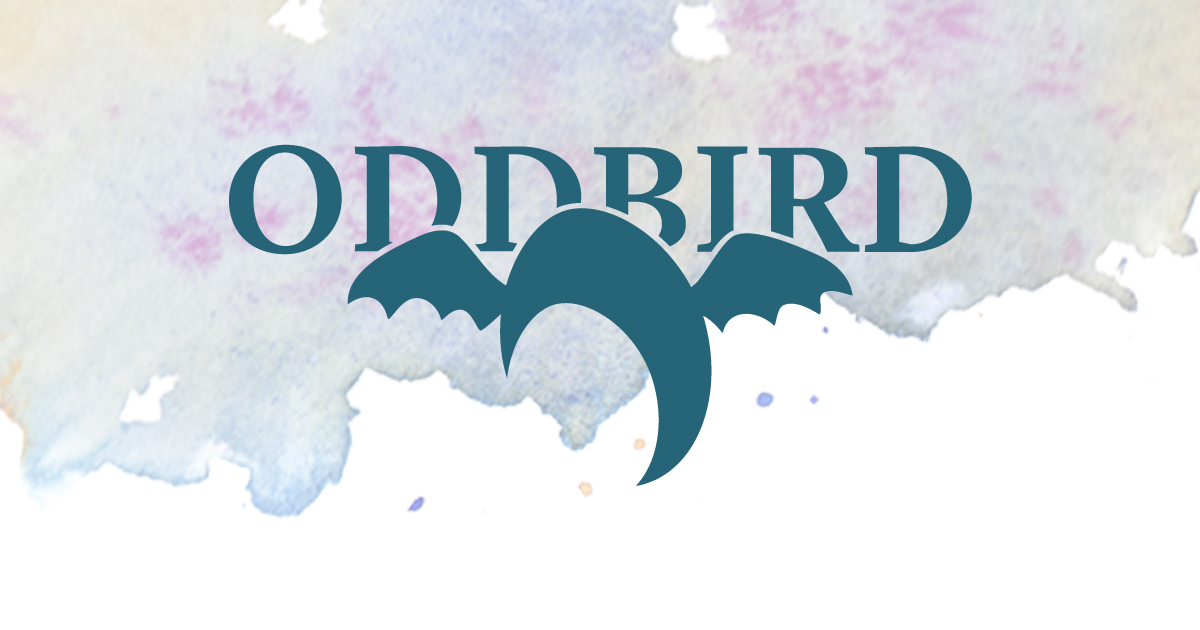
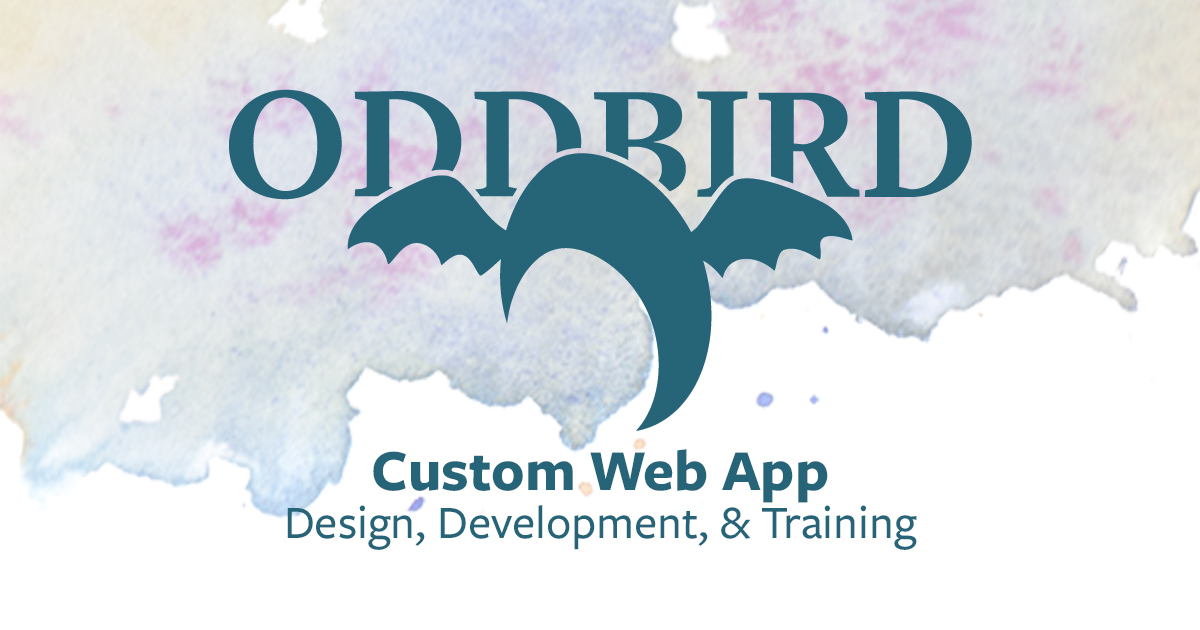
edited title and added tagline to default image

Changed region(s): [[0.185, 0.1206, 0.8325, 0.6032], [0.2158, 0.573, 0.7708, 0.8746]]

diff --git a/content/index.md b/content/index.md
@@ -1,5 +1,5 @@
 ---
-title: We Design & Develop Web Apps For Humans
+title: Custom Web App Design & Development For Humans
 banner: |
   Custom Web App
   *[Design](/services/design-systems/),
